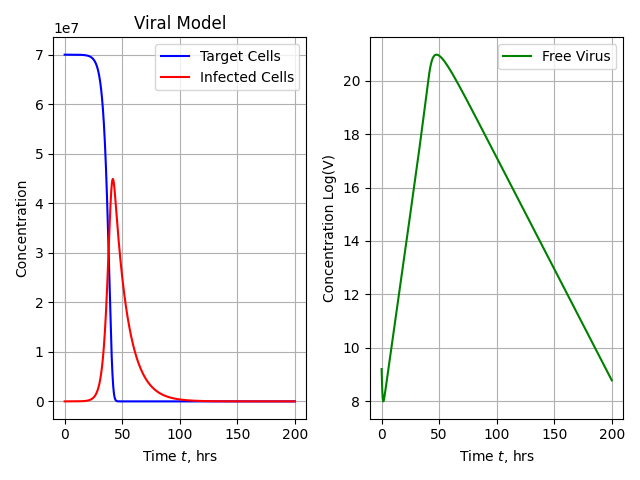
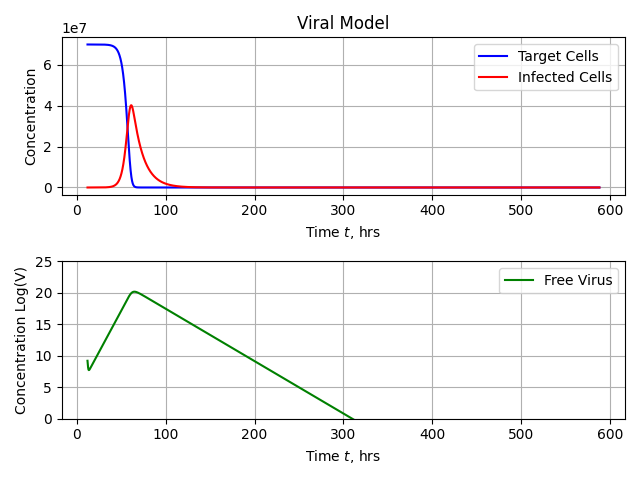
Messing around with longer periods and different values for EC50

diff --git a/tamiflu_model.py b/tamiflu_model.py
@@ -10,7 +10,7 @@ Go = 75  # initial dose of 75mg
 OPo = Go * ka
 
 tdose = 12  # time between doses in hours
-num_doses = 4
+num_doses = 30
 dt = .1  # dose time
 
 To = 7e7  # initial number of epithelial cells in upper respiratory
@@ -22,9 +22,9 @@ InfectionRate = 1.25e-9  # Rate of infection of target cells by virus, (EID50/mL
 InfectedDeathRate = 0.0833333  # h^-1
 MaxAntiviralEffect = .98
 
-EC50 = 30  # Concentration of drug reaching half-maximal effect, not sure where this number came from
+EC50 = 30  # Concentration of drug reaching half-maximal effect,
 ViralProdRate = 8.75  # *EID50/mL) cell^-1 h^-1
-ViralClearanceRate = .2083333  # Nonspecific h^-1
+ViralClearanceRate = .5  # Nonspecific viral clearance h^-1
 ViralConsumption = 2.08333e-8  # Rate of viral consumption by binding to target cells, cell^-1 h^-1
 
 
@@ -46,9 +46,8 @@ def OP_metabolism_multidose(Y, t):
     V = Y[5]
 
     urtOC = .95 * OC  # for the below calculations, OC is taken to be in ng/ml, which is equal to ug/L
-
-    AntiviralEffect = (MaxAntiviralEffect * urtOC) / (urtOC + EC50)
-    dTdt = gt * T * (1 - (T + I) / To) - InfectionRate * V * T
+    AntiviralEffect = 0#(MaxAntiviralEffect * urtOC) / (urtOC + EC50)
+    dTdt = gt * T * (1 - (T + I)/7e7) - InfectionRate * V * T
     dIdt = InfectionRate * V * T - InfectedDeathRate * I
     dVdT = (1 - AntiviralEffect) * ViralProdRate * I - ViralClearanceRate * V - ViralConsumption * V * T
 
@@ -59,7 +58,7 @@ def plot(G, OP, OC, t, T, I, V, forgotten_dose):
     fig = plt.figure(num=1, clear=True)
     ax = fig.add_subplot(1, 1, 1)
     # Plot using red circles
-    ax.plot(t, G, 'b-', label='Oral OP Cocentration', markevery=10)
+    #ax.plot(t, G, 'b-', label='Oral OP Cocentration', markevery=10)
     ax.plot(t, OP, 'r-', label='Plasma OP Concentration', markevery=10)
     ax.plot(t, OC, 'g-', label='Plasma OC Concentration', markevery=10)
     if forgotten_dose:
@@ -77,11 +76,12 @@ def plot(G, OP, OC, t, T, I, V, forgotten_dose):
     # Create Figure for Viral Data
 
     fig = plt.figure(num=1, clear=True)
-    ax = fig.add_subplot(1, 2, 1)
+    ax = fig.add_subplot(2, 1, 1)
+
     # Plot using red circles
     ax.plot(t, T, 'b-', label='Target Cells', markevery=10)
     ax.plot(t, I, 'r-', label='Infected Cells', markevery=10)
-    ax2 = fig.add_subplot(1,2,2)
+    ax2 = fig.add_subplot(2,1,2)
     ax2.plot(t, np.log(V), 'g-', label='Free Virus', markevery=10)
 
     # Set labels and turn grid on
@@ -93,6 +93,7 @@ def plot(G, OP, OC, t, T, I, V, forgotten_dose):
     ax2.grid(True)
     ax2.legend(loc='best')
     # Use space most effectively
+    plt.ylim([0, 25])  # set bounds on Y axis for free virus concentration
     fig.tight_layout()
     # Save as a PNG file
     fig.savefig('Viral_Model.png')
@@ -108,7 +109,7 @@ def dosing(tdose, num_doses, forgotten_dose=0):
     V = []
 
     time = []
-    Yo = [75, 0, 0, To, Io, Vo]  # initial conditions of G, dose, is 75mg and OP and OC are both 0
+    Yo = [150, 0, 0, To, Io, Vo]  # initial conditions of G, dose, is 75mg and OP and OC are both 0
     t = np.arange(0, tdose, .01)  # 12 hours, iterate by the minute
     while dose <= num_doses:
 
@@ -136,15 +137,17 @@ def dosing(tdose, num_doses, forgotten_dose=0):
         if dose == forgotten_dose:
             added_dose = g[len(g) - 1]
         else:
-            added_dose = g[len(g) - 1] + 75
+            added_dose = g[len(g) - 1] + 150
 
         Yo = [added_dose, op[len(op) - 1], oc[len(oc) - 1], target_cells[len(target_cells) - 1],
               i[len(i) - 1], v[len(v) - 1]]
         # set initial conditions for the next loop equal to the last values from the previous loop
 
-    print(G)
+    """print(G)
     print(OP)
-    print(OC)
+    print(OC)"""
+    print(np.argmin(T))
+    print(np.min(T))
     plot(G, OP, OC, time, T, I, V, forgotten_dose * tdose)
 
 
@@ -160,11 +163,11 @@ def viral_growth(Y, t):
 
     return [dTdt, dIdt, dVdT]
 
-
+'''
 t = np.arange(0, 200, .01)
 
 out = odeint(viral_growth, [To, Io, Vo], t)
 print(out)
-plot(t, t , t, t, out[:,0], out[:,1], out[:,2], 0)
+plot(t, t , t, t, out[:,0], out[:,1], out[:,2], 0)'''
 
-# dosing(12, 7)  # Function call for the dosing equation, frequency of dosing, number of doses
+dosing(12, 48)  # Function call for the dosing equation, frequency of dosing, number of doses
